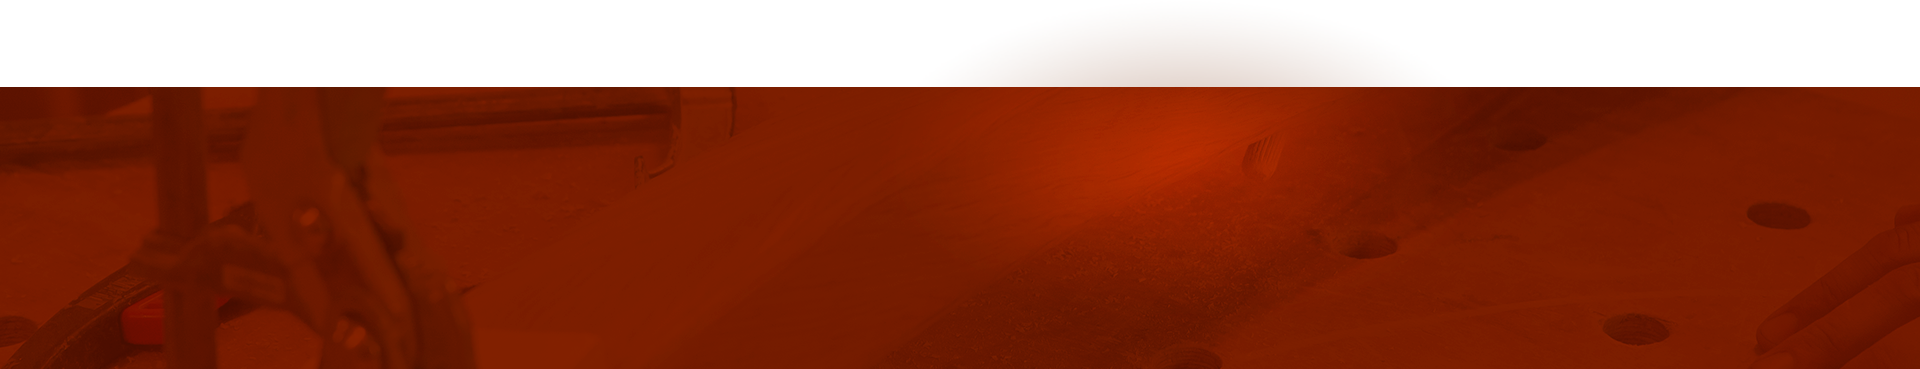
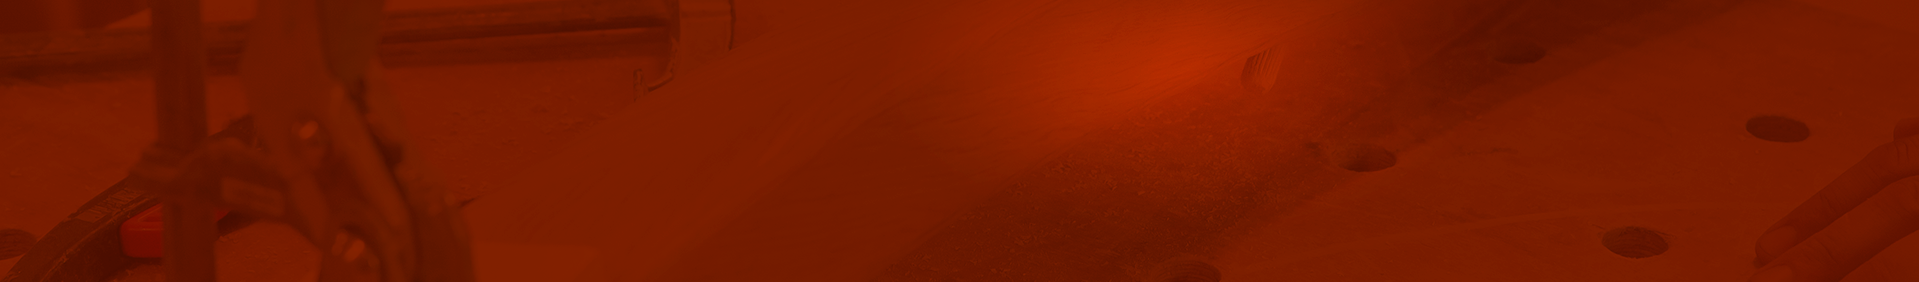
reesepinsove

diff --git a/src/pages/catalog.js b/src/pages/catalog.js
@@ -52,12 +52,13 @@ const Wrapper = styled.div`
   display: flex;
   justify-content: center;
   width: 100%;
-  height: 280px;
+  min-height: 280px;
   background-image: url(${FilterImage});
   background-repeat: no-repeat;
   background-position: bottom;
   @media (${MEDIA.SM}) {
-    height: 600px;
+    min-height: 220px;
+    background-size: auto 100%;
   }
 `
 const Content = styled.div`
@@ -110,15 +111,24 @@ const WrapperGallery = styled.div`
 const FilterWrapper = styled.div`
   width: 920px;
   display: flex;
+  flex-wrap: wrap;
   justify-content: space-between;
   padding-top: 33px;
   @media (${MEDIA.SM}) {
-    flex-direction: column;
-    align-items: center;
+    width: 100vw;
+    padding-left: 50px;
+    padding-right: 50px;
+  }
+  @media (${MEDIA.XS}) {
+    display: flex;
+    justify-content: center;
   }
 `
 const FilterLeftSide = styled.div`
   margin-left: 60px;
+  @media (${MEDIA.SM}) {
+    margin-left: unset;
+  }
 `
 const TitleFilter = styled.div`
   font-size: 22px;
@@ -127,11 +137,17 @@ const TitleFilter = styled.div`
   flex-direction: column;
   align-items: center;
   color: #eee4dd;
+  @media (${MEDIA.SM}) {
+    font-size: 16px;
+  }
 `
 const Line = styled.div`
   height: 2px;
   width: ${({ size }) => (!!size ? `${size}px` : "327px")};
   background-color: #eee4dd;
+  @media (${MEDIA.SM}) {
+    width: ${({ sizeMobile }) => (!!sizeMobile ? `${sizeMobile}px` : "227px")};
+  }
 `
 const FilterImages = styled.div`
   margin-right: 35px;
@@ -150,9 +166,27 @@ const FilterImages = styled.div`
       width: 80px;
     }
   }
+  @media (${MEDIA.SM}) {
+    margin-right: 4px;
+    margin-top: 10px;
+    width: 60px;
+    height: 75px;
+    .gatsby-image-wrapper {
+      height: 50px;
+      width: 50px;
+      img {
+        height: 50px;
+        width: 50px;
+      }
+    }
+  }
 `
 const WrapperFilterImages = styled.div`
   display: flex;
+  @media (${MEDIA.SM}) {
+    width: ${({ width }) => width || "227px"};
+    justify-content: ${({ justify }) => justify || "center"};
+  }
 `
 const FilterTitle = styled.span`
   text-transform: uppercase;
@@ -161,8 +195,15 @@ const FilterTitle = styled.span`
   font-size: 16px;
   margin-top: 8px;
   color: ${colors.white};
+  @media (${MEDIA.SM}) {
+    font-size: 11px;
+    margin-top: 4px;
+  }
 `
-const FilterRightSide = styled.div``
+const FilterRightSide = styled.div`
+  @media (${MEDIA.SM}) {
+  }
+`
 const LineSelectFilter = styled.div`
   width: 100%;
   height: 4px;
@@ -235,7 +276,7 @@ const SecondPage = () => {
               </FilterImages>
               <FilterImages>
                 <Img fluid={filterBoxer.childImageSharp.fluid} />
-                <FilterTitle> меблі</FilterTitle>
+                <FilterTitle>меблі</FilterTitle>
               </FilterImages>
             </WrapperFilterImages>
           </FilterLeftSide>
@@ -244,8 +285,8 @@ const SecondPage = () => {
               <div>НЕСТАНДАРТНІ</div>
               <div>ВИРОБИ</div>
             </TitleFilter>
-            <Line size={434} />
-            <WrapperFilterImages>
+            <Line size={434} sizeMobile={284} />
+            <WrapperFilterImages justify={"space-evenly"} width={"285px"}>
               <FilterImages>
                 <Img fluid={filterDor.childImageSharp.fluid} />
                 <FilterTitle>двері</FilterTitle>
